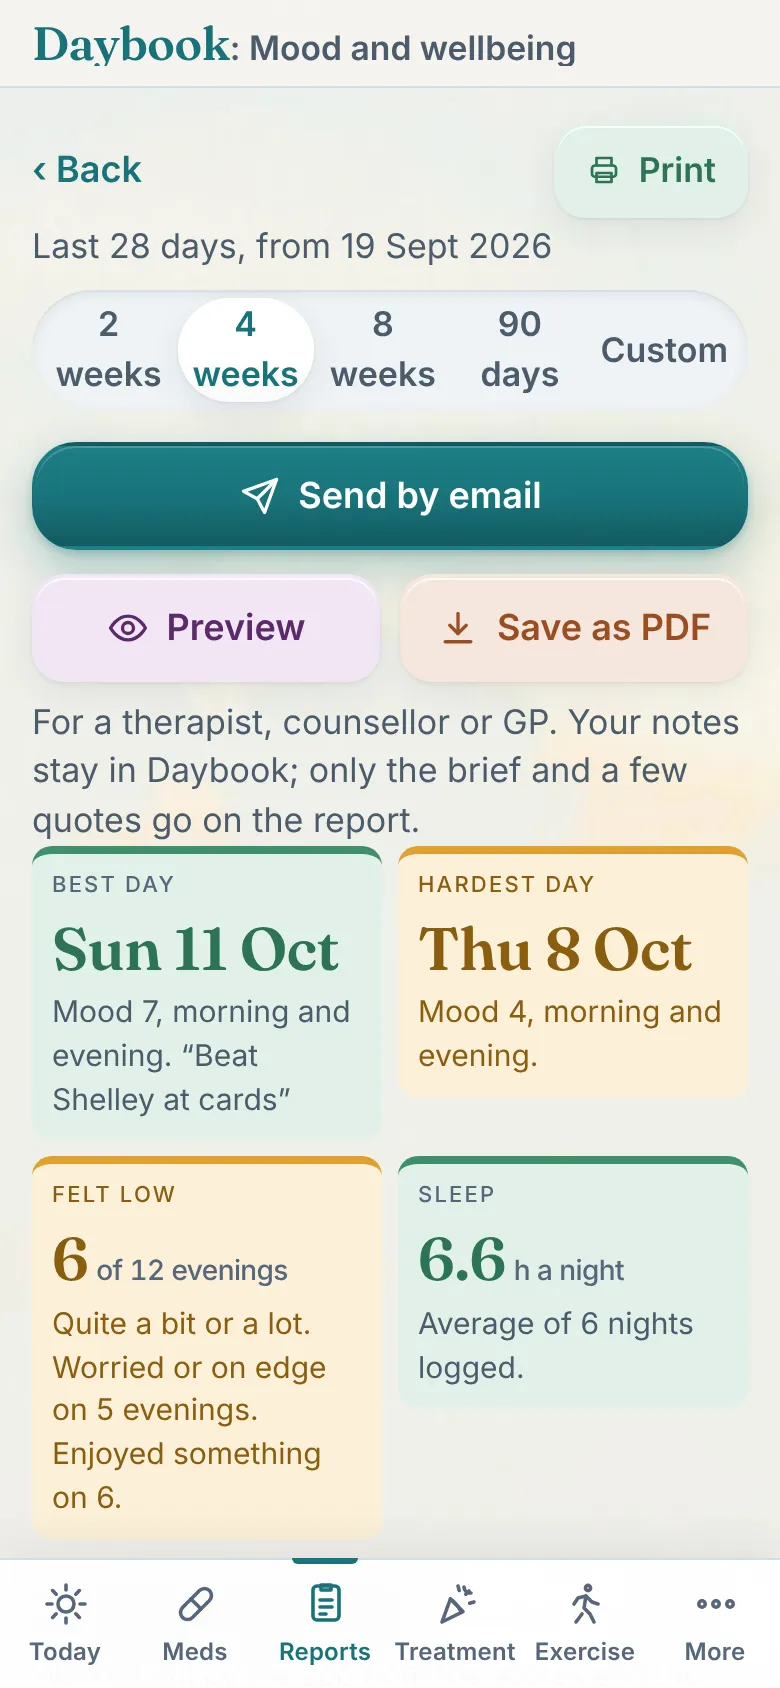
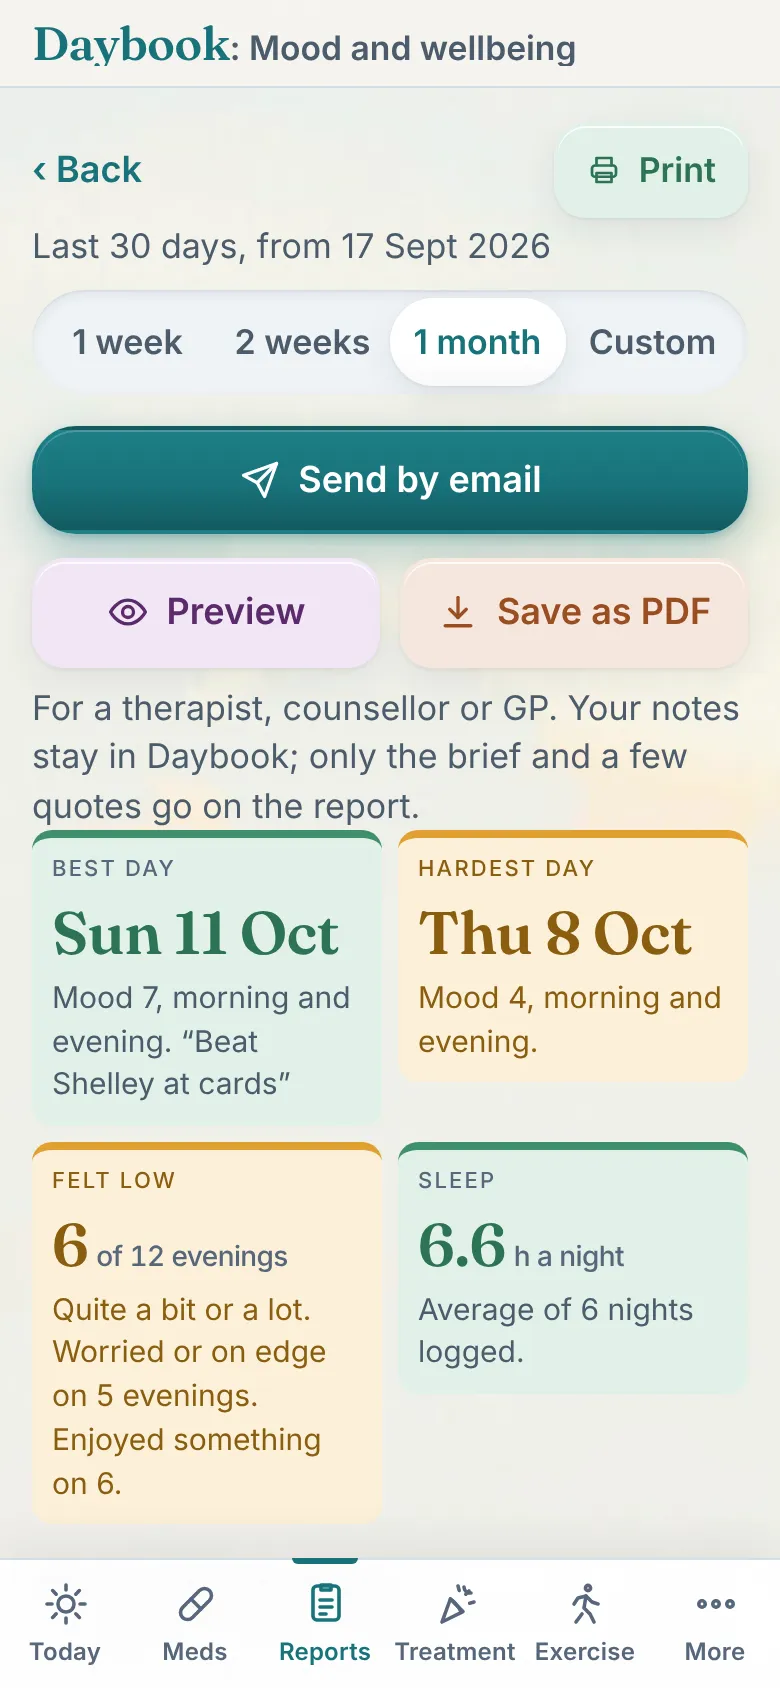
v303: every report offers 1 week, 2 weeks, 1 month or Custom
Mark found 4 weeks, 8 weeks and 90 days unnecessary. Mood and Crohn's
default to 1 month; the Guide frames retaken.

Claude-Session: https://claude.ai/code/session_019VY17MM1Pv81B6vJUTKu9b

diff --git a/index.html b/index.html
@@ -17,7 +17,7 @@
   <link rel="preconnect" href="https://fonts.googleapis.com">
   <link rel="preconnect" href="https://fonts.gstatic.com" crossorigin>
   <link href="https://fonts.googleapis.com/css2?family=Fraunces:opsz,wght@9..144,500;9..144,600;9..144,700&family=Inter:wght@400;500;600;700&display=swap" rel="stylesheet">
-  <link rel="stylesheet" href="styles.css?v=302">
+  <link rel="stylesheet" href="styles.css?v=303">
 </head>
 <body>
   <a class="skip-link" href="#main">Skip to content</a>
@@ -609,8 +609,7 @@
         <div class="segmented" role="group" aria-label="Range">
           <button class="seg" type="button" data-range="7">1 week</button>
           <button class="seg is-active" type="button" data-range="14">2 weeks</button>
-          <button class="seg" type="button" data-range="30">30 days</button>
-          <button class="seg" type="button" data-range="90">90 days</button>
+          <button class="seg" type="button" data-range="30">1 month</button>
           <button class="seg" type="button" data-range="custom">Custom</button>
         </div>
         <div id="food-custom" class="field-row custom-range" hidden>
@@ -649,10 +648,9 @@
         </div>
         <p id="mood-sub" class="muted"></p>
         <div class="segmented" role="group" aria-label="Range">
+          <button class="seg" type="button" data-range="7">1 week</button>
           <button class="seg" type="button" data-range="14">2 weeks</button>
-          <button class="seg is-active" type="button" data-range="28">4 weeks</button>
-          <button class="seg" type="button" data-range="56">8 weeks</button>
-          <button class="seg" type="button" data-range="90">90 days</button>
+          <button class="seg is-active" type="button" data-range="30">1 month</button>
           <button class="seg" type="button" data-range="custom">Custom</button>
         </div>
         <div id="mood-custom" class="field-row custom-range" hidden>
@@ -696,10 +694,9 @@
         </div>
         <p id="pain-sub" class="muted"></p>
         <div class="segmented" role="group" aria-label="Range">
+          <button class="seg" type="button" data-range="7">1 week</button>
           <button class="seg is-active" type="button" data-range="14">2 weeks</button>
-          <button class="seg" type="button" data-range="28">4 weeks</button>
-          <button class="seg" type="button" data-range="56">8 weeks</button>
-          <button class="seg" type="button" data-range="90">90 days</button>
+          <button class="seg" type="button" data-range="30">1 month</button>
           <button class="seg" type="button" data-range="custom">Custom</button>
         </div>
         <div id="pain-custom" class="field-row custom-range" hidden>
@@ -750,10 +747,9 @@
         </div>
         <p id="ibd-sub" class="muted"></p>
         <div class="segmented" role="group" aria-label="Range">
+          <button class="seg" type="button" data-range="7">1 week</button>
           <button class="seg" type="button" data-range="14">2 weeks</button>
-          <button class="seg is-active" type="button" data-range="28">4 weeks</button>
-          <button class="seg" type="button" data-range="56">8 weeks</button>
-          <button class="seg" type="button" data-range="90">90 days</button>
+          <button class="seg is-active" type="button" data-range="30">1 month</button>
           <button class="seg" type="button" data-range="custom">Custom</button>
         </div>
         <div id="ibd-custom" class="field-row custom-range" hidden>
@@ -796,8 +792,7 @@
         <div class="segmented" role="group" aria-label="Range">
           <button class="seg is-active" type="button" data-range="7">1 week</button>
           <button class="seg" type="button" data-range="14">2 weeks</button>
-          <button class="seg" type="button" data-range="30">30 days</button>
-          <button class="seg" type="button" data-range="90">90 days</button>
+          <button class="seg" type="button" data-range="30">1 month</button>
           <button class="seg" type="button" data-range="custom">Custom</button>
         </div>
         <div id="notes-custom" class="field-row custom-range" hidden>
@@ -1219,6 +1214,6 @@
   </div>
 
   <script src="config.js"></script>
-  <script type="module" src="scripts.js?v=302"></script>
+  <script type="module" src="scripts.js?v=303"></script>
 </body>
 </html>

diff --git a/scripts.js b/scripts.js
@@ -13,7 +13,7 @@ import {
   query, where, orderBy, limit, onSnapshot, serverTimestamp, Timestamp, writeBatch, deleteField, runTransaction
 } from 'https://www.gstatic.com/firebasejs/10.12.2/firebase-firestore.js';
 
-const APP_VERSION = '302';
+const APP_VERSION = '303';
 /* The stage of the app (v132): 'Beta' until it is on the App Store and Google Play, then ''. Shown as a small pill on the
    opener and the four cover screens (never in the topbar, where it squeezed "Daybook: Treatment plan" off the end at 390px),
    after the version everywhere the version shows, and as one line on the App card and About
@@ -864,9 +864,9 @@ const state = {
   trendRange: 7,
   foodRange: 14,
   notesRange: 7,
-  moodRange: 28,
+  moodRange: 30,
   painRange: 14, // two weeks by default (Mark, 22 October 2026)
-  ibdRange: 28,
+  ibdRange: 30,
   foodRangeMode: 'preset',
   notesRangeMode: 'preset',
   foodCustomFrom: null,
@@ -7627,7 +7627,7 @@ function buildTwoPage(n) {
     weeks[0].entries.unshift({ when, text: 'Earlier in the period: ' + (pw.theme ? pw.theme.charAt(0).toLowerCase() + pw.theme.slice(1) : "nothing flagged by the app's checks."), alert: pw.entries.some((e) => e.alert), lead: true });
   }
   const period = rPeriod(from, to);
-  const word = nDays === 7 ? 'Week' : nDays === 14 ? 'Fortnight' : nDays + ' days';
+  const word = nDays === 7 ? 'Week' : nDays === 14 ? 'Fortnight' : nDays === 30 ? 'Month' : nDays + ' days';
   const t = parseDay(to);
   const patient = (state.profile && state.profile.reportName) || state.patientName || state.name || '';
   return {

diff --git a/CLAUDE.md b/CLAUDE.md
@@ -26,6 +26,9 @@ When Mark asks for a change that could be read more than one way, or that would 
 ## Licence
 `LICENSE` (since v68): **copyright Mark 1 Apps Ltd** since v151 (company number 17510025, registered in England and Wales, 9 October 2026; Shelley and Mark directors). Mark Brown created Daybook and assigned the code, the names, the artwork, the domains and the Mark 1 Apps name and mark to the company by a Deed of Assignment dated 10 October 2026, signed by Mark, by Shelley for the company and before an independent witness, after a written resolution of both shareholders approving it; the originals are kept with the company papers, never in the repo. The LICENSE, README, the terms' copyright paragraph (dated 10 October 2026), About's licence line, the opener and the Settings card all read "Copyright 2026 Mark 1 Apps Ltd"; About still says Daybook was made by Mark Brown, which the deed allows (clause 4). The code is published to be read (the repository has to be public for GitHub Pages, and a web app hands its code to every browser anyway), not copied, hosted or built on; the name, strapline, artwork and the Mark 1 Apps mark are reserved too. Third-party parts keep their own licences (CoFID under the Open Government Licence, the CDN libraries and the fonts under theirs). The notice also appears on the Settings App card, in `README.md` and in the pitch footer. Copyright is automatic; the file removes the "I assumed it was open source" excuse. The LICENSE names "My Medical Daybook (Daybook)". A trade mark application for the full name is a roadmap item for when the app goes to the stores; a descriptive phrase like this is hard to register and hard for anyone else to register, which is part of why it was chosen.
 
+## Four report ranges: 1 week, 2 weeks, 1 month, Custom (v303, 24 October 2026)
+Mark, on the Mood report's range row: "These are bonkers timings we only need 1 and 2 maybe last month and then custom." Every report's range row (Notes for the team, Food diary, Mood and wellbeing, Pain and pain relief, Crohn's and colitis) is now **1 week** (7), **2 weeks** (14), **1 month** (the last 30 days) and **Custom**; 4 weeks, 8 weeks and 90 days went. Defaults: Notes 1 week, Food and Pain 2 weeks, Mood and Crohn's 1 month (`state.moodRange` and `ibdRange` 30, were 28). Notes for the team's masthead reads "Month to ..." for 30 days. Custom still allows up to 180 days. The Trends charts' own row (1 week, 2 weeks, 30 days) is not a report and is unchanged. The Guide was retaken (the report frames show the new row) and copied to the website. Tested in the scratchpad's `h/t29.cjs` (the four buttons and defaults on all five reports, 1 month giving 30 days, Custom's box, 44px, no sideways scroll, 390 light and 320 dark, no page errors) and `h/t29b.cjs` (Pain, Mood, Food and Crohn's previews at 1 week and 1 month, nothing failing to fit).
+
 ## Foods read as meant: flavours, brands, products with no figures (v302, 23 October 2026)
 Mark, after v301: what else could go wrong with food, since it matters most for Crohn's users. A check in the preview found real faults, and a search found no published fix (Open Food Facts' own data-quality pages say serving sizes are free text and often missing; app reviews favour no match over a wrong one). Mark: "give your answers a go", feedback to follow.
 - **Flavour words** (`FLAVOUR_CARRIERS`, `FLAVOUR_WORDS`, `FRUIT_FLAVOURS`, `flavourCarrier()` beside `matchFoodText()`): when a phrase ends in a food that comes in flavours (yogurt, jam, juice, cake, bar, ice cream, tea and the like) and is not known whole, the flavour words and unknown words (a brand) before it are folded into it; a real food before it ("chicken pie") is still matched. A fruit yogurt is the table's "Yogurt, whole milk, fruit" (aliases `fruit yogurt`, `fruit yoghurt`). "Black cherry yogurt" and "Activia cherry yogurt" are one fruit yogurt counted in pots; "strawberry jam on toast" is jam and toast, no strawberries. `pieceInfo()` counts the carrier, never the flavour.
